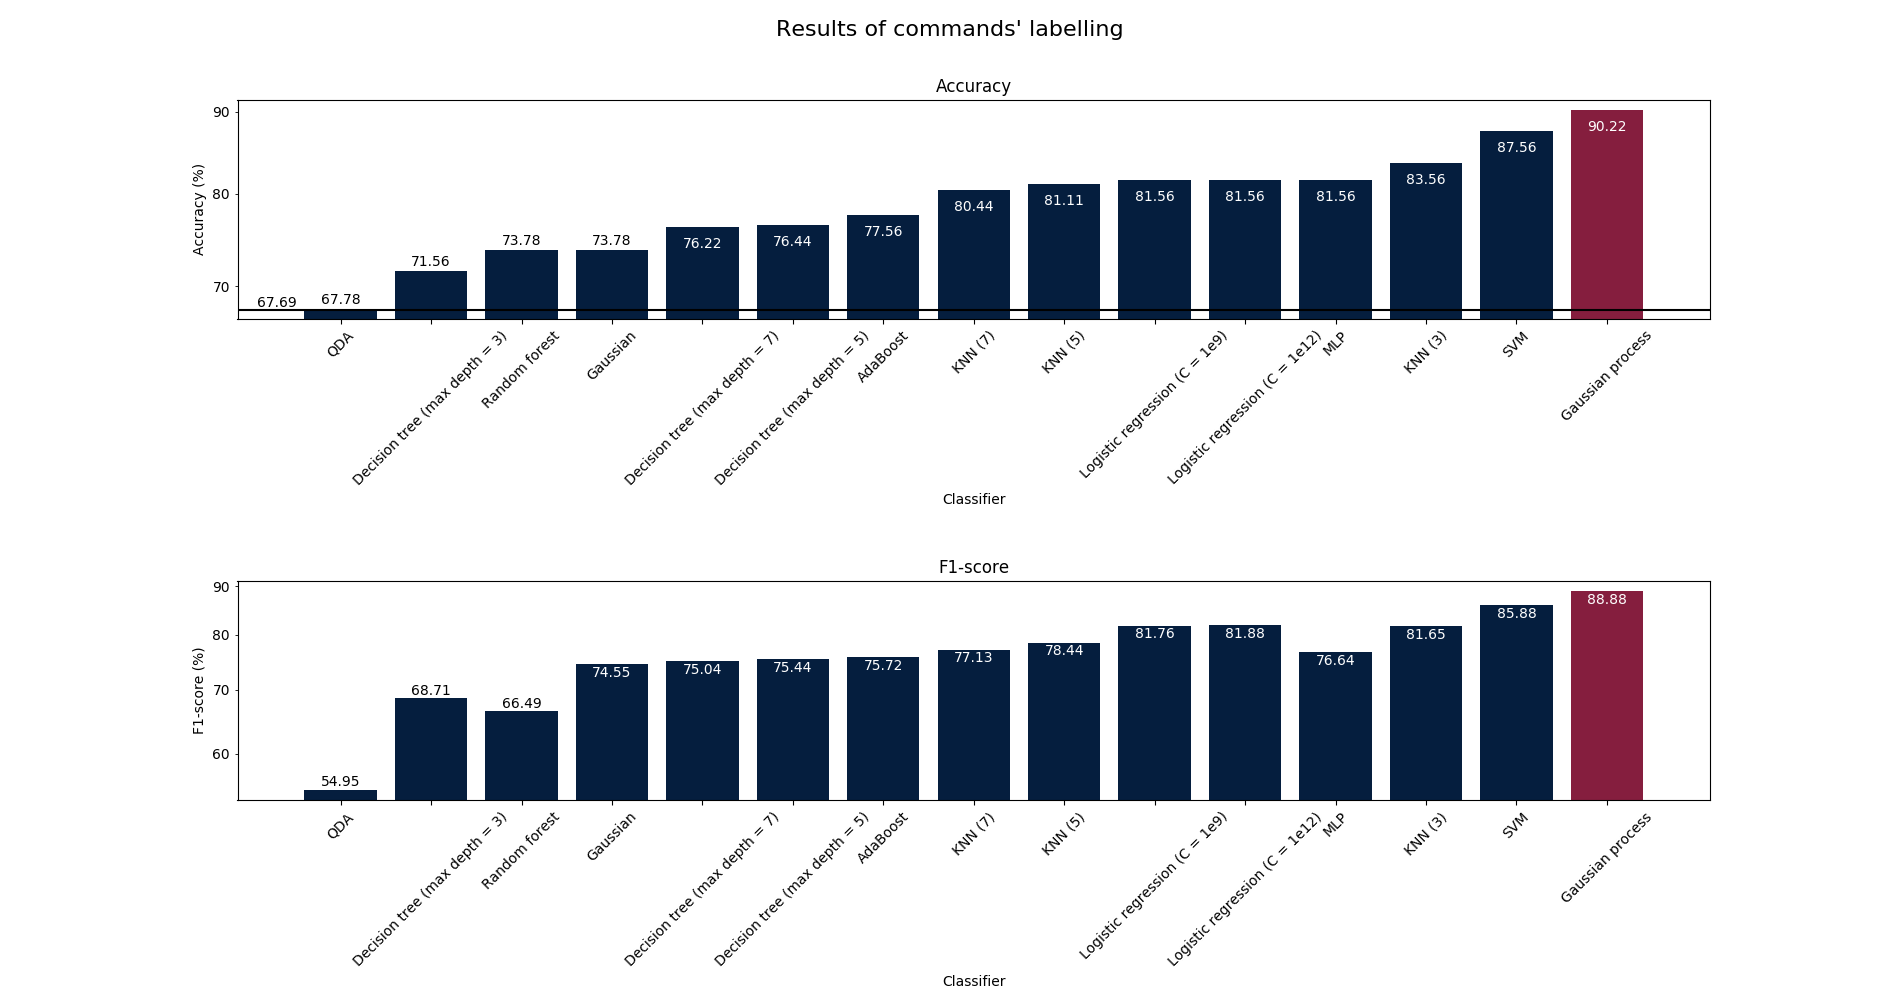
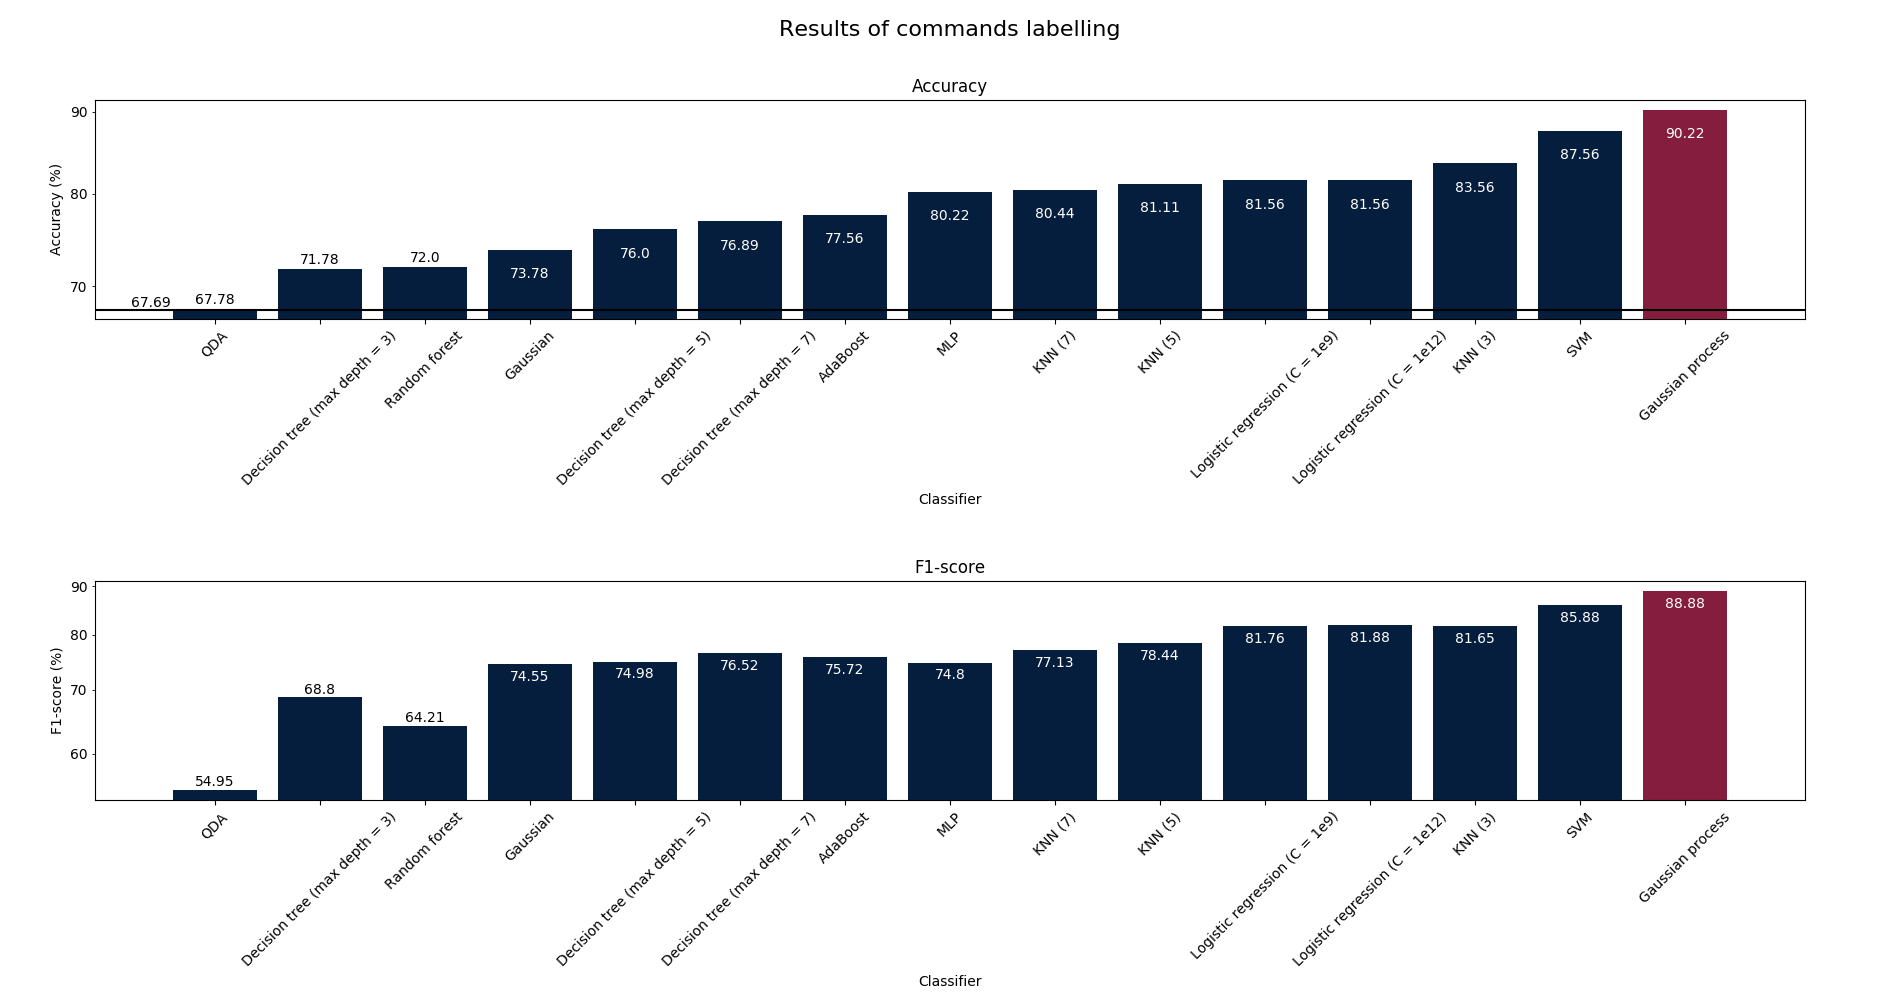
Updated plots

diff --git a/scripts/w2v/test.py b/scripts/w2v/test.py
@@ -162,7 +162,7 @@ if not args.tf:
 	def draw_bar_labels(x, y, axis, threshold=2, round_precision=2):
 		smallest = sorted(y)[threshold]
 		for c, v in zip(x, y):
-			axis.text(c, v * 0.97 if v > smallest else v + 0.5, str(round(v, 2)), color='white' if v > smallest else 'black', horizontalalignment='center')
+			axis.text(c, v * 0.96 if v > smallest else v + 0.5, str(round(v, 2)), color='white' if v > smallest else 'black', horizontalalignment='center')
 
 	# create two sublots
 	fig, axs = plt.subplots(2)
@@ -170,7 +170,7 @@ if not args.tf:
 
 	fig.set_figwidth(19)
 	fig.set_figheight(10)
-	fig.suptitle("Results of commands' labelling" if args.title is None else args.title, fontsize=16)
+	fig.suptitle("Results of commands labelling" if args.title is None else args.title, fontsize=16)
 
 	axs[0].bar(rdf.classifier, height=rdf.accuracy, color=[COMMON_COLOR if i < max_accuracy else BRIGHT_COLOR for i in accuracy], log = True)
 	axs[0].set_title('Accuracy')
